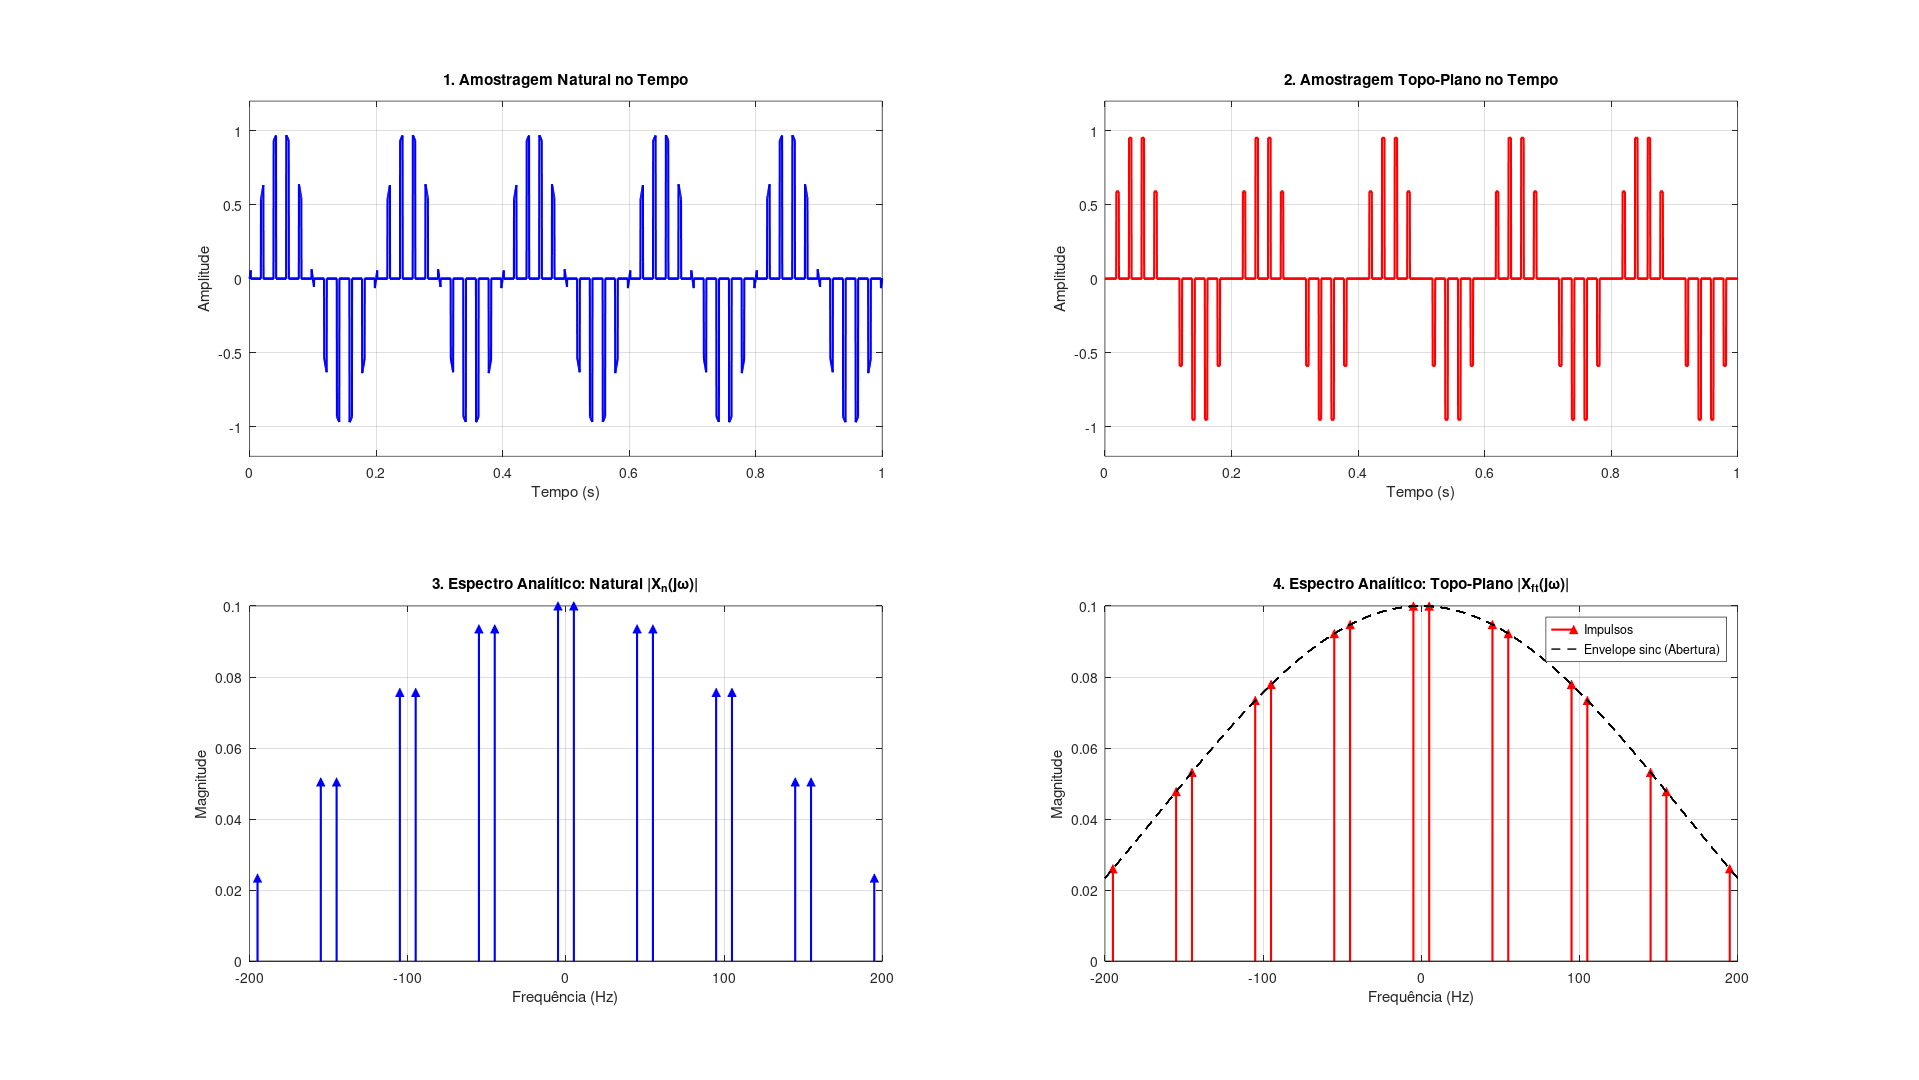
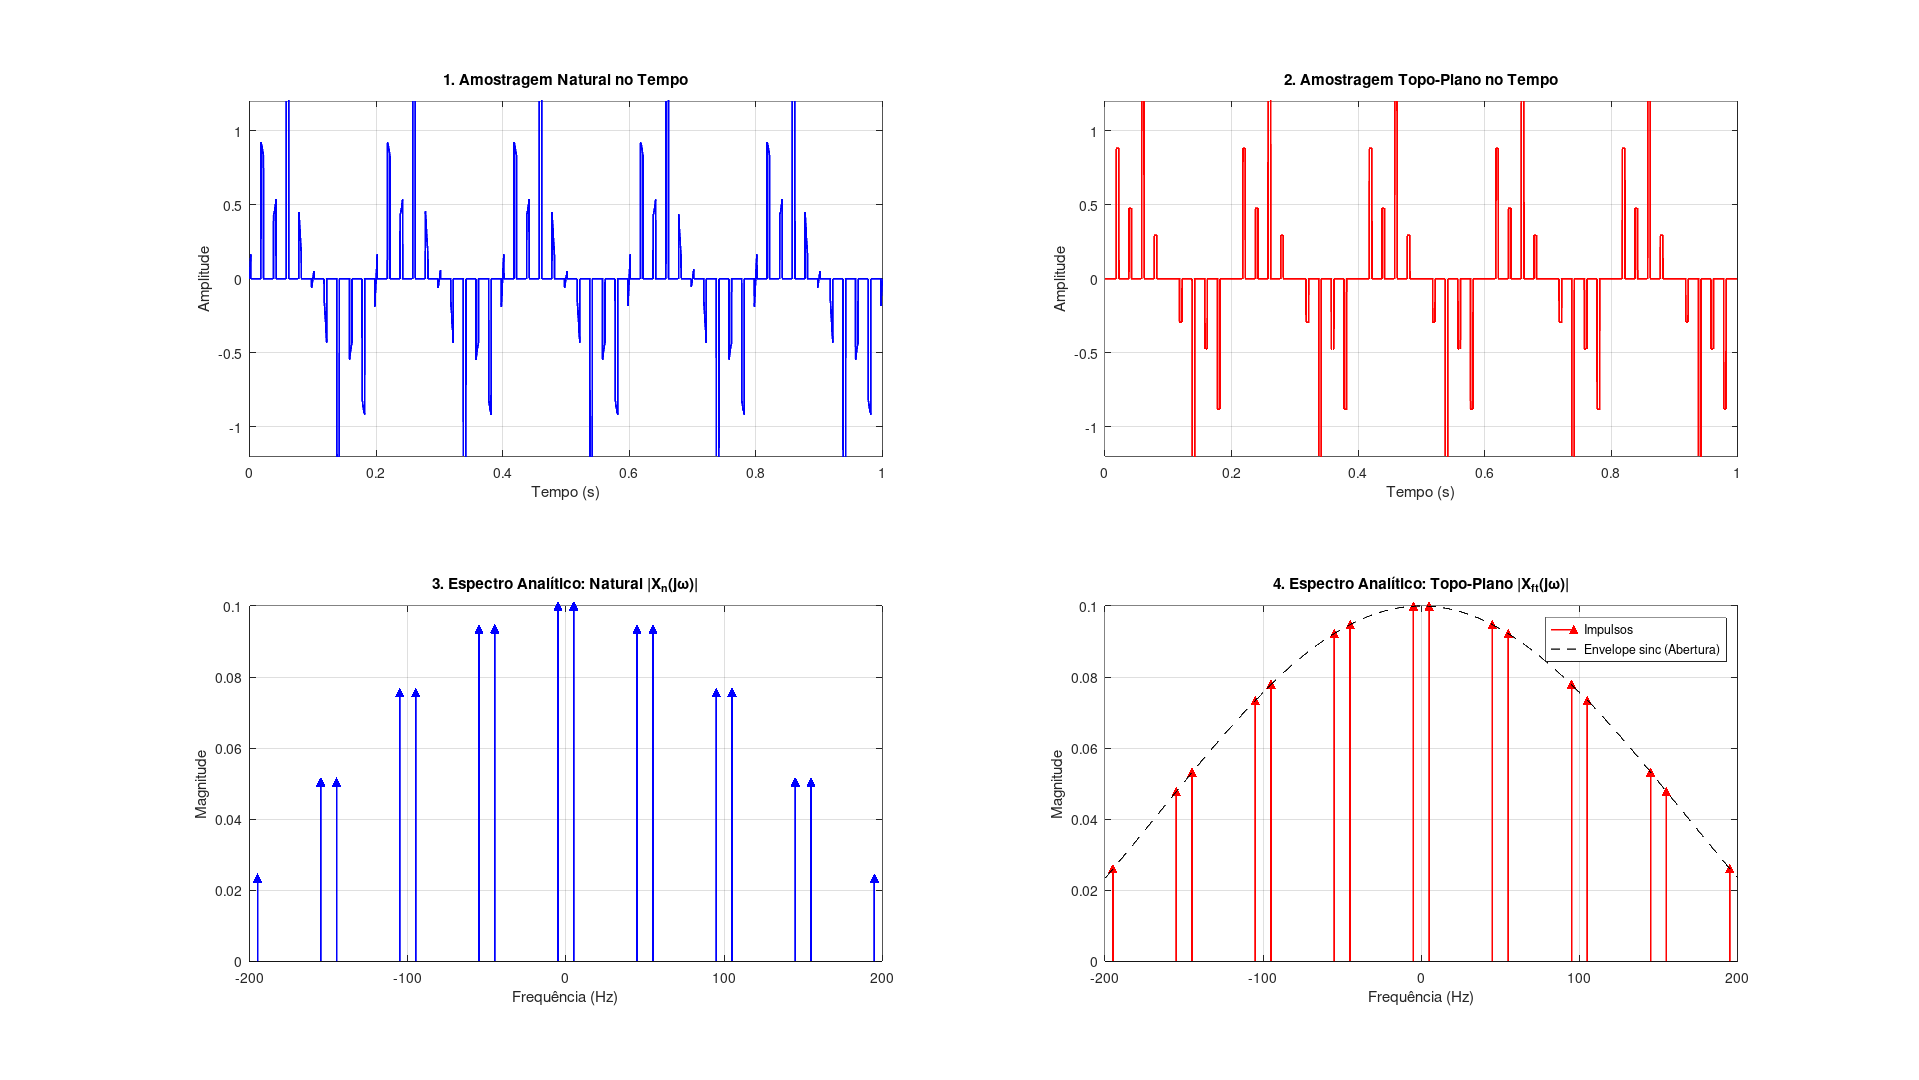
feat: adição das fases

diff --git a/main.m b/main.m
@@ -8,96 +8,123 @@ clear; clc; close all;
 addpath(genpath('src'));
 addpath('utils');
 
-%% 1. Definição dos Parâmetros Globais
+% 1. Definição dos Parâmetros Globais
 frequency = 5;                         % Frequência do sinal original (Hz)
-omega = 2*pi*frequency;                % Frequência angular (rad/s)
+omega = 2 * pi * frequency;            % Frequência angular (rad/s)
 samplingFrequency = 50;                % Frequência de amostragem (Hz)
 samplingPeriod = 1/samplingFrequency;  % Período de amostragem (s)
-tau = 0.20 * samplingPeriod;            % Largura do pulso (50% do período); Considerar usar percentual menor.
-displayRange = 4 * samplingFrequency;
-kMax = ceil((displayRange + frequency) / samplingFrequency);
+tau = 0.20 * samplingPeriod;           % Largura do pulso (20% do período); Considerar usar percentual menor.
+displayRange = 4 * samplingFrequency;  % Limite no eixo x de plotar as frequências
+kMax = ceil((displayRange + frequency) / samplingFrequency); % Quantidade de réplicas de frequência
 
 startTime = 0;                         % Tempo inicial
 endTime = 1;                           % Tempo final
+numPoints = 4001;                      % Número de pontos para plotar
 
 % Define o sinal de origem como um "function handle" para passar às funções
 x = @(t) sin(omega * t);
 
+
 % Eixo de tempo do sinal base
-numPoints = 4001; % Número de pontos para plotar
 continuousTime = linspace(startTime, endTime, numPoints);
 continuousSignal = x(continuousTime);
 
-% Amostragem Ideal
-[idealSignal, idealTime] = idealSampling(x, samplingFrequency, startTime, endTime);
-
-% Amostragem Natural
-[naturalSignal, naturalTime] = naturalSampling(x, samplingFrequency, tau, startTime, endTime, numPoints);
-
-% Amostragem Topo-Plano
-[flatTopSignal, flatTopTime] = flatTopSampling(x, samplingFrequency, tau, startTime, endTime, numPoints);
-
-%% FIGURA 1
-figure(1, 'Name', 'Analise de Amostragem Ideal', 'Position', [100, 100, 1000, 800]);
+% FIGURA 1: x(t) em tempo contínuo
+figure('Name', 'Sinal x(t) em tempo contínuo', 'Position', [100, 100, 1000, 800]);
 
 % PLOT 1: Tempo - Sinal Contínuo
-subplot(2, 2, 1);
+subplot(3, 1, 1);
 plot(continuousTime, continuousSignal, 'b-', 'LineWidth', 1.5);
 title('1. Sinal Contínuo x(t) = sen(\omega_0 t)');
 xlabel('Tempo (s)'); ylabel('Amplitude');
 grid on; ylim([-1.2 1.2]);
 
-% PLOT 2: Tempo - Amostrado de forma Ideal
-subplot(2, 2, 2);
+% PLOT 2: Frequência - Analítico (Contínuo)
+subplot(3, 1, 2);
+continuousFrequencies = [-frequency, frequency];
+continuousAmplitudes = [-0.5j, 0.5j];
+stem(continuousFrequencies, abs(continuousAmplitudes), 'b', 'Marker', '^', 'LineWidth', 1.5, 'MarkerFaceColor', 'b');
+title('2. Espectro Contínuo Analítico |X(j\omega)|');
+xlabel('Frequência (Hz)'); ylabel('Magnitude');
+grid on; xlim([-displayRange displayRange]);
+
+subplot(3, 1, 3);
+stem(continuousFrequencies, angle(continuousAmplitudes), 'b', 'LineWidth', 1.5, 'MarkerFaceColor', 'b');
+title('Espectro Contínuo Analítico ∠X(j\omega)');
+xlabel('Frequência (Hz)'); ylabel('Fase');
+grid on; xlim([-displayRange displayRange]);
+
+
+% Amostragem Ideal
+[idealSignal, idealTime] = idealSampling(x, samplingFrequency, startTime, endTime);
+
+% FIGURA 2: Amostragem Ideal
+figure('Name', 'Amostragem ideal do sinal x(t)', 'Position', [100, 100, 1000, 800]);
+
+% PLOT 1: Tempo - Amostrado de forma Ideal
+subplot(3, 1, 1);
 stem(idealTime, idealSignal, 'r', 'filled', 'LineWidth', 1.5);
 title('2. Amostragem Ideal (Tempo)');
 xlabel('Tempo (s)'); ylabel('Amplitude');
 grid on; ylim([-1.2 1.2]);
 
-% PLOT 3: Frequência - Analítico (Contínuo)
-subplot(2, 2, 3);
-continuousFrequencies = [-frequency, frequency];
-continuousAmplitudes = [0.5, 0.5];
-stem(continuousFrequencies, continuousAmplitudes, 'b', 'Marker', '^', 'LineWidth', 1.5, 'MarkerFaceColor', 'b');
-title('3. Espectro Contínuo Analítico |X(j\omega)|');
-xlabel('Frequência (Hz)'); ylabel('Magnitude');
-grid on; xlim([-displayRange displayRange]);
-
-% PLOT 4: Frequência - Analítico (Amostrado Ideal)
-subplot(2, 2, 4);
+% PLOT 2: Frequência - Analítico (Amostrado Ideal)
+subplot(3, 1, 2);
 [idealAmplitudes, idealFrequencies] = idealTransform(frequency, samplingFrequency, kMax);
 stem(idealFrequencies, abs(idealAmplitudes), 'r', 'Marker', '^', 'LineWidth', 1.5, 'MarkerFaceColor', 'r');
 title('4. Espectro Amostrado Ideal Analítico |X_s(j\omega)|');
 xlabel('Frequência (Hz)'); ylabel('Magnitude');
 grid on; xlim([-displayRange displayRange]); ylim([0 (0.5*samplingFrequency)+2]);
 
-%% FIGURA 2
-figure(2, 'Name', 'Amostragem Natural e Topo-Plano', 'Position', [150, 150, 1000, 800]);
+subplot(3, 1, 3);
+stem(idealFrequencies, arg(idealAmplitudes), 'r', 'Marker', '^', 'LineWidth', 1.5, 'MarkerFaceColor', 'r');
+title('4. Espectro Amostrado Ideal Analítico |X_s(j\omega)|');
+xlabel('Frequência (Hz)'); ylabel('Fase');
+
+
+% Amostragem Natural
+[naturalSignal, naturalTime] = naturalSampling(x, samplingFrequency, tau, startTime, endTime, numPoints);
+
+% FIGURA 3
+figure('Name', 'Amostragem Natural', 'Position', [150, 150, 1000, 800]);
 
 % PLOT 1: Tempo - Amostragem Natural
-subplot(2, 2, 1);
+subplot(3, 1, 1);
 plot(naturalTime, naturalSignal, 'b-', 'LineWidth', 1.5);
 title('1. Amostragem Natural no Tempo');
 xlabel('Tempo (s)'); ylabel('Amplitude');
 grid on; ylim([-1.2 1.2]);
 
-% PLOT 2: Tempo - Amostragem Topo-Plano
-subplot(2, 2, 2);
-plot(flatTopTime, flatTopSignal, 'r-', 'LineWidth', 1.5);
-title('2. Amostragem Topo-Plano no Tempo');
-xlabel('Tempo (s)'); ylabel('Amplitude');
-grid on; ylim([-1.2 1.2]);
-
-% PLOT 3: Frequência - Analítico (Natural)
-subplot(2, 2, 3);
+% PLOT 2: Frequência - Analítico (Natural)
+subplot(3, 1, 2);
 [naturalAmplitudes, naturalFrequencies] = naturalTransform(frequency, samplingFrequency, tau, kMax);
 stem(naturalFrequencies, abs(naturalAmplitudes), 'b', 'Marker', '^', 'LineWidth', 1.5, 'MarkerFaceColor', 'b');
 title('3. Espectro Analítico: Natural |X_n(j\omega)|');
 xlabel('Frequência (Hz)'); ylabel('Magnitude');
 grid on; xlim([-displayRange displayRange]);
 
-% PLOT 4: Frequência - Analítico (Topo-Plano)
-subplot(2, 2, 4);
+subplot(3, 1, 3);
+stem(naturalFrequencies, arg(naturalAmplitudes), 'b', 'Marker', '^', 'LineWidth', 1.5, 'MarkerFaceColor', 'b');
+title('3. Espectro Analítico: Natural |X_n(j\omega)|');
+xlabel('Frequência (Hz)'); ylabel('Fase');
+grid on; xlim([-displayRange displayRange]);
+
+
+% Amostragem Topo-Plano
+[flatTopSignal, flatTopTime] = flatTopSampling(x, samplingFrequency, tau, startTime, endTime, numPoints);
+
+% FIGURA 4
+figure('Name', 'Amostragem Topo-Plano', 'Position', [150, 150, 1000, 800]);
+
+% PLOT 1: Tempo - Amostragem Topo-Plano
+subplot(3, 1, 1);
+plot(flatTopTime, flatTopSignal, 'r-', 'LineWidth', 1.5);
+title('2. Amostragem Topo-Plano no Tempo');
+xlabel('Tempo (s)'); ylabel('Amplitude');
+grid on; ylim([-1.2 1.2]);
+
+% PLOT 2: Frequência - Analítico (Topo-Plano)
+subplot(3, 1, 2);
 [flatTopAmplitudes, flatTopFrequencies] = flatTopTransform(frequency, samplingFrequency, tau, kMax);
 stem(flatTopFrequencies, abs(flatTopAmplitudes), 'r', 'Marker', '^', 'LineWidth', 1.5, 'MarkerFaceColor', 'r');
 hold on;
@@ -110,6 +137,12 @@ title('4. Espectro Analítico: Topo-Plano |X_{ft}(j\omega)|');
 xlabel('Frequência (Hz)'); ylabel('Magnitude');
 legend('Impulsos', 'Envelope sinc (Abertura)', 'Location', 'northeast');
 grid on; xlim([-displayRange displayRange]);
+
+subplot(3,1,3);
+stem(flatTopFrequencies, angle(flatTopAmplitudes), 'r', 'LineWidth', 1.5, 'MarkerFaceColor', 'r');
+title('4. Espectro Analítico: Topo-Plano ∠X_{ft}(j\omega)');
+xlabel('Frequência (Hz)'); ylabel('Fase');
+
 
 % Save
 set(1, 'paperunits', 'inches');
@@ -130,8 +163,8 @@ if ~exist(output_path, 'dir')
 end
 
 % Salva os arquivos com o caminho absoluto
-print(1, fullfile(output_path, 'sinais_amostragem1.png'), '-dpng', '-r100');
-print(2, fullfile(output_path, 'sinais_amostragem2.png'), '-dpng', '-r100');
+% print(1, fullfile(output_path, 'sinais_amostragem1.png'), '-dpng', '-r100');
+% print(2, fullfile(output_path, 'sinais_amostragem2.png'), '-dpng', '-r100');
 
 % TODO: Reconstrução do Sinal
 % TODO: Caso com Aliasing
@@ -147,7 +180,7 @@ print(2, fullfile(output_path, 'sinais_amostragem2.png'), '-dpng', '-r100');
 
 %% FIGURA 3 - RECONSTRUÇÃO IDEAL
 
-figure(3, 'Name', 'Reconstrução Ideal', ...
+figure('Name', 'Reconstrução Ideal', ...
     'Position', [200, 100, 1000, 700]);
 
 % Sinal reconstruído
@@ -195,7 +228,7 @@ ylim([0 0.6]);
 
 %% FIGURA 4 - RECONSTRUÇÃO NATURAL
 
-figure(4, 'Name', 'Reconstrução Natural', ...
+figure('Name', 'Reconstrução Natural', ...
     'Position', [250, 100, 1000, 700]);
 
 % Sinal reconstruído
@@ -242,7 +275,7 @@ xlim([-displayRange displayRange]);
 
 %% FIGURA 5 - RECONSTRUÇÃO TOPO-PLANO
 
-figure(5, 'Name', 'Reconstrução Topo-Plano', ...
+figure('Name', 'Reconstrução Topo-Plano', ...
     'Position', [300, 100, 1000, 700]);
 
 % Sinal reconstruído
@@ -278,3 +311,4 @@ grid on;
 xlim([-displayRange displayRange]);
 
 % TODO: Avaliar casos com Aliasing e não executar análise por FFT.
+

diff --git a/src/transform/flatTopTransform.m b/src/transform/flatTopTransform.m
@@ -19,8 +19,8 @@ function [amplitudes, frequencies] = ...
     for k = kSamples
         frequencyShift = k * samplingFrequency;
         frequencies = [frequencies, -frequency + frequencyShift, frequency + frequencyShift];
-        amplitudes = [amplitudes, 0.5j, -0.5j];
+        amplitudes = [amplitudes, -0.5j, 0.5j];
     end
-    amplitudeScale = (tau / samplingPeriod) * sinc(frequencies * tau);
+    amplitudeScale = (tau / samplingPeriod) * sinc(frequencies * tau) .* exp(-1j * pi * tau .* frequencies);
     amplitudes = amplitudeScale .* amplitudes;
 end

diff --git a/src/transform/naturalTransform.m b/src/transform/naturalTransform.m
@@ -20,6 +20,6 @@ function [amplitudes, frequencies] = ...
         frequencyShift = k * samplingFrequency;
         frequencies = [frequencies, -frequency + frequencyShift, frequency + frequencyShift];
         amplitudeScale = (tau / samplingPeriod) * sinc(k * samplingFrequency * tau);
-        amplitudes = [amplitudes, 0.5j * amplitudeScale, 0.5j * -amplitudeScale];
+        amplitudes = [amplitudes, -0.5j * amplitudeScale, 0.5j * amplitudeScale];
     end
 end

diff --git a/src/transform/idealTransform.m b/src/transform/idealTransform.m
@@ -16,6 +16,6 @@ function [amplitudes, frequencies] = ...
     for k = kSamples
         frequencyShift = k * samplingFrequency;
         frequencies = [frequencies, -frequency + frequencyShift, frequency + frequencyShift];
-        amplitudes = [amplitudes, 0.5j * samplingFrequency, 0.5j * -samplingFrequency];
+        amplitudes = [amplitudes, -0.5j * samplingFrequency, 0.5j * samplingFrequency];
     end
 end
